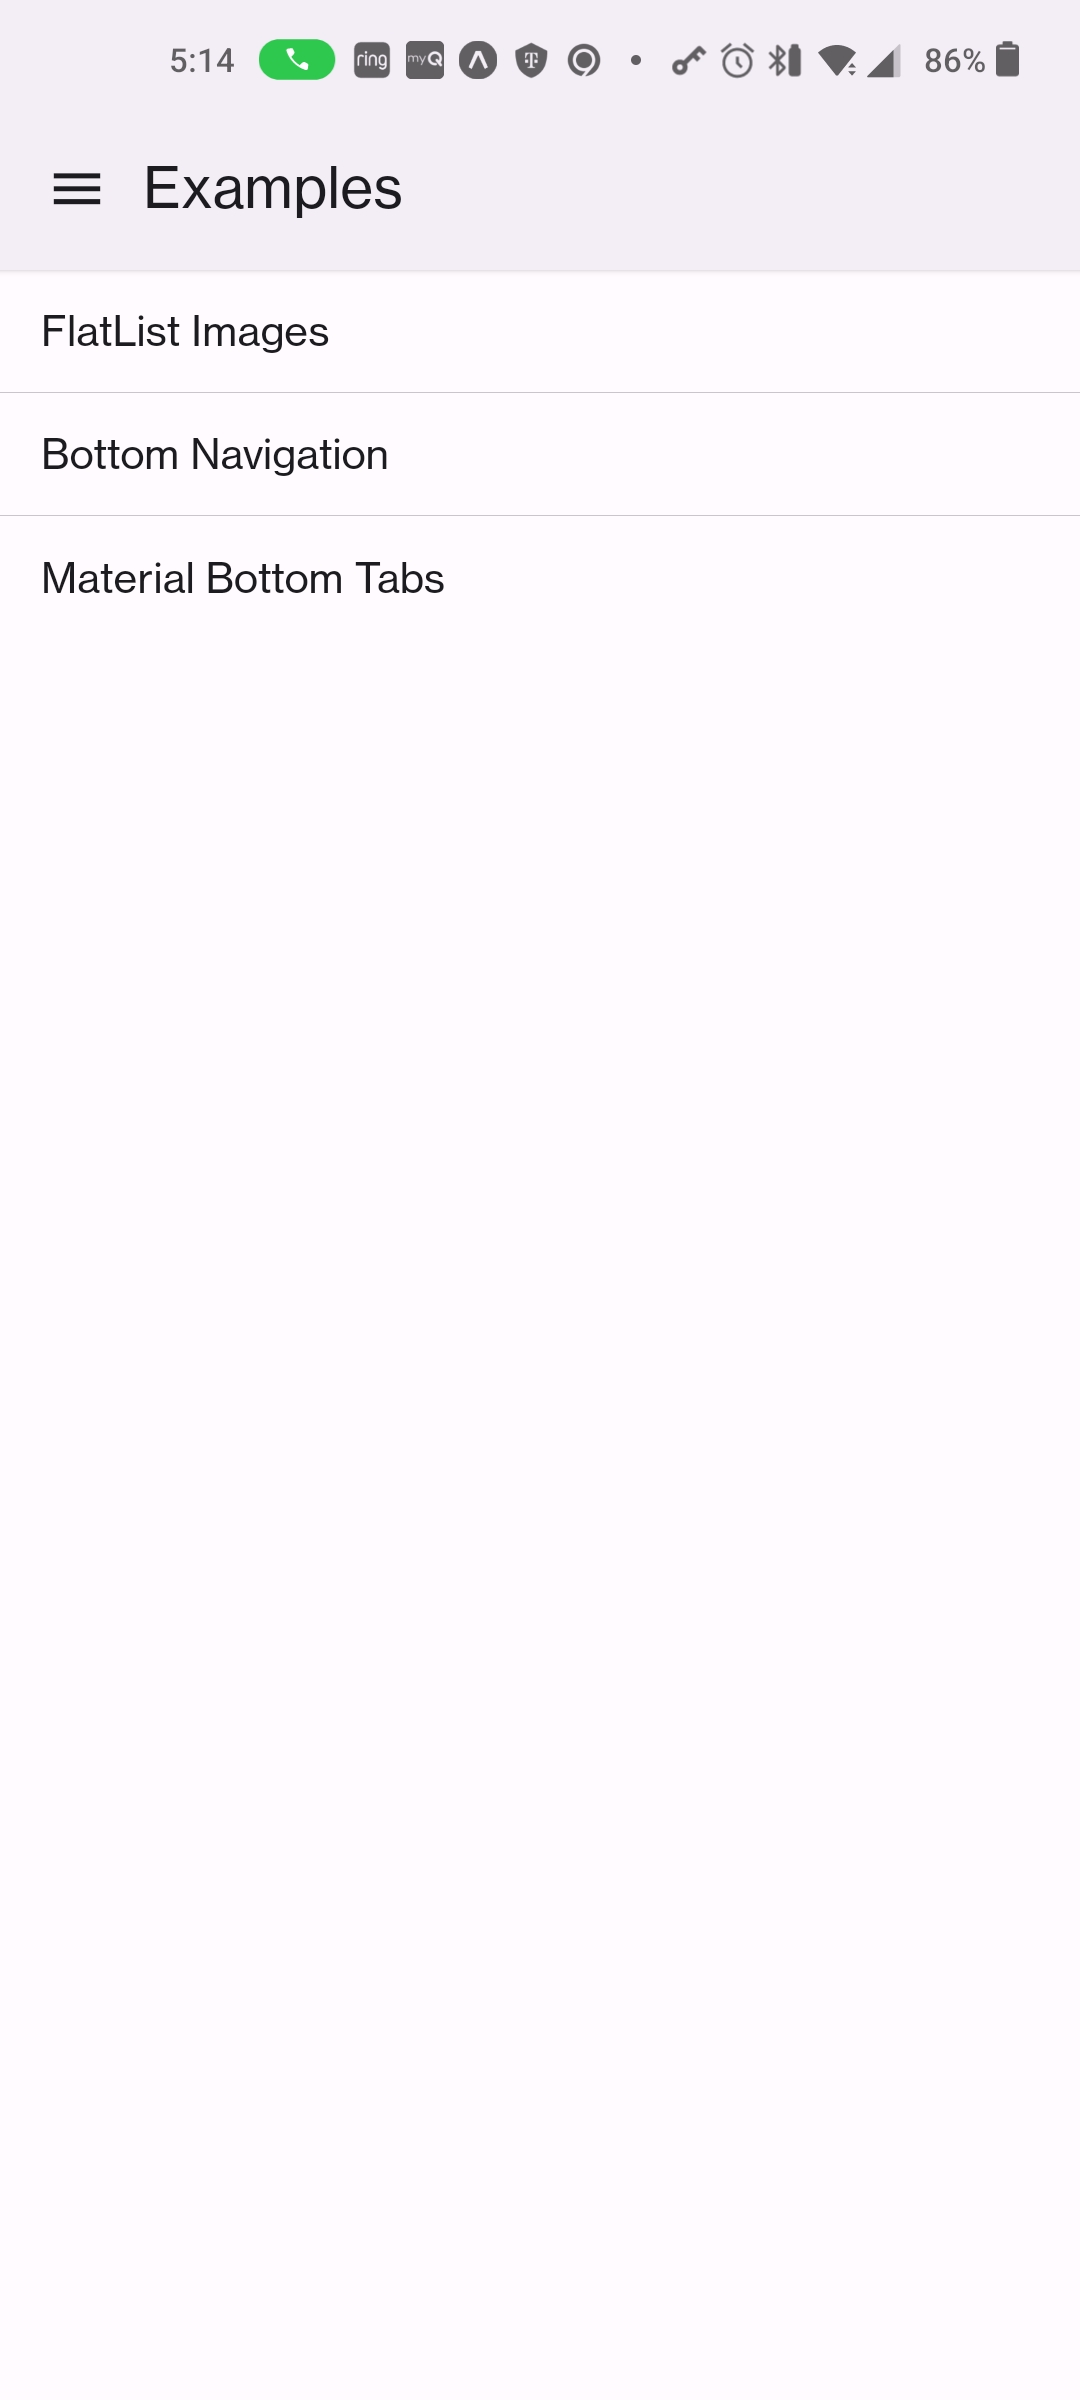
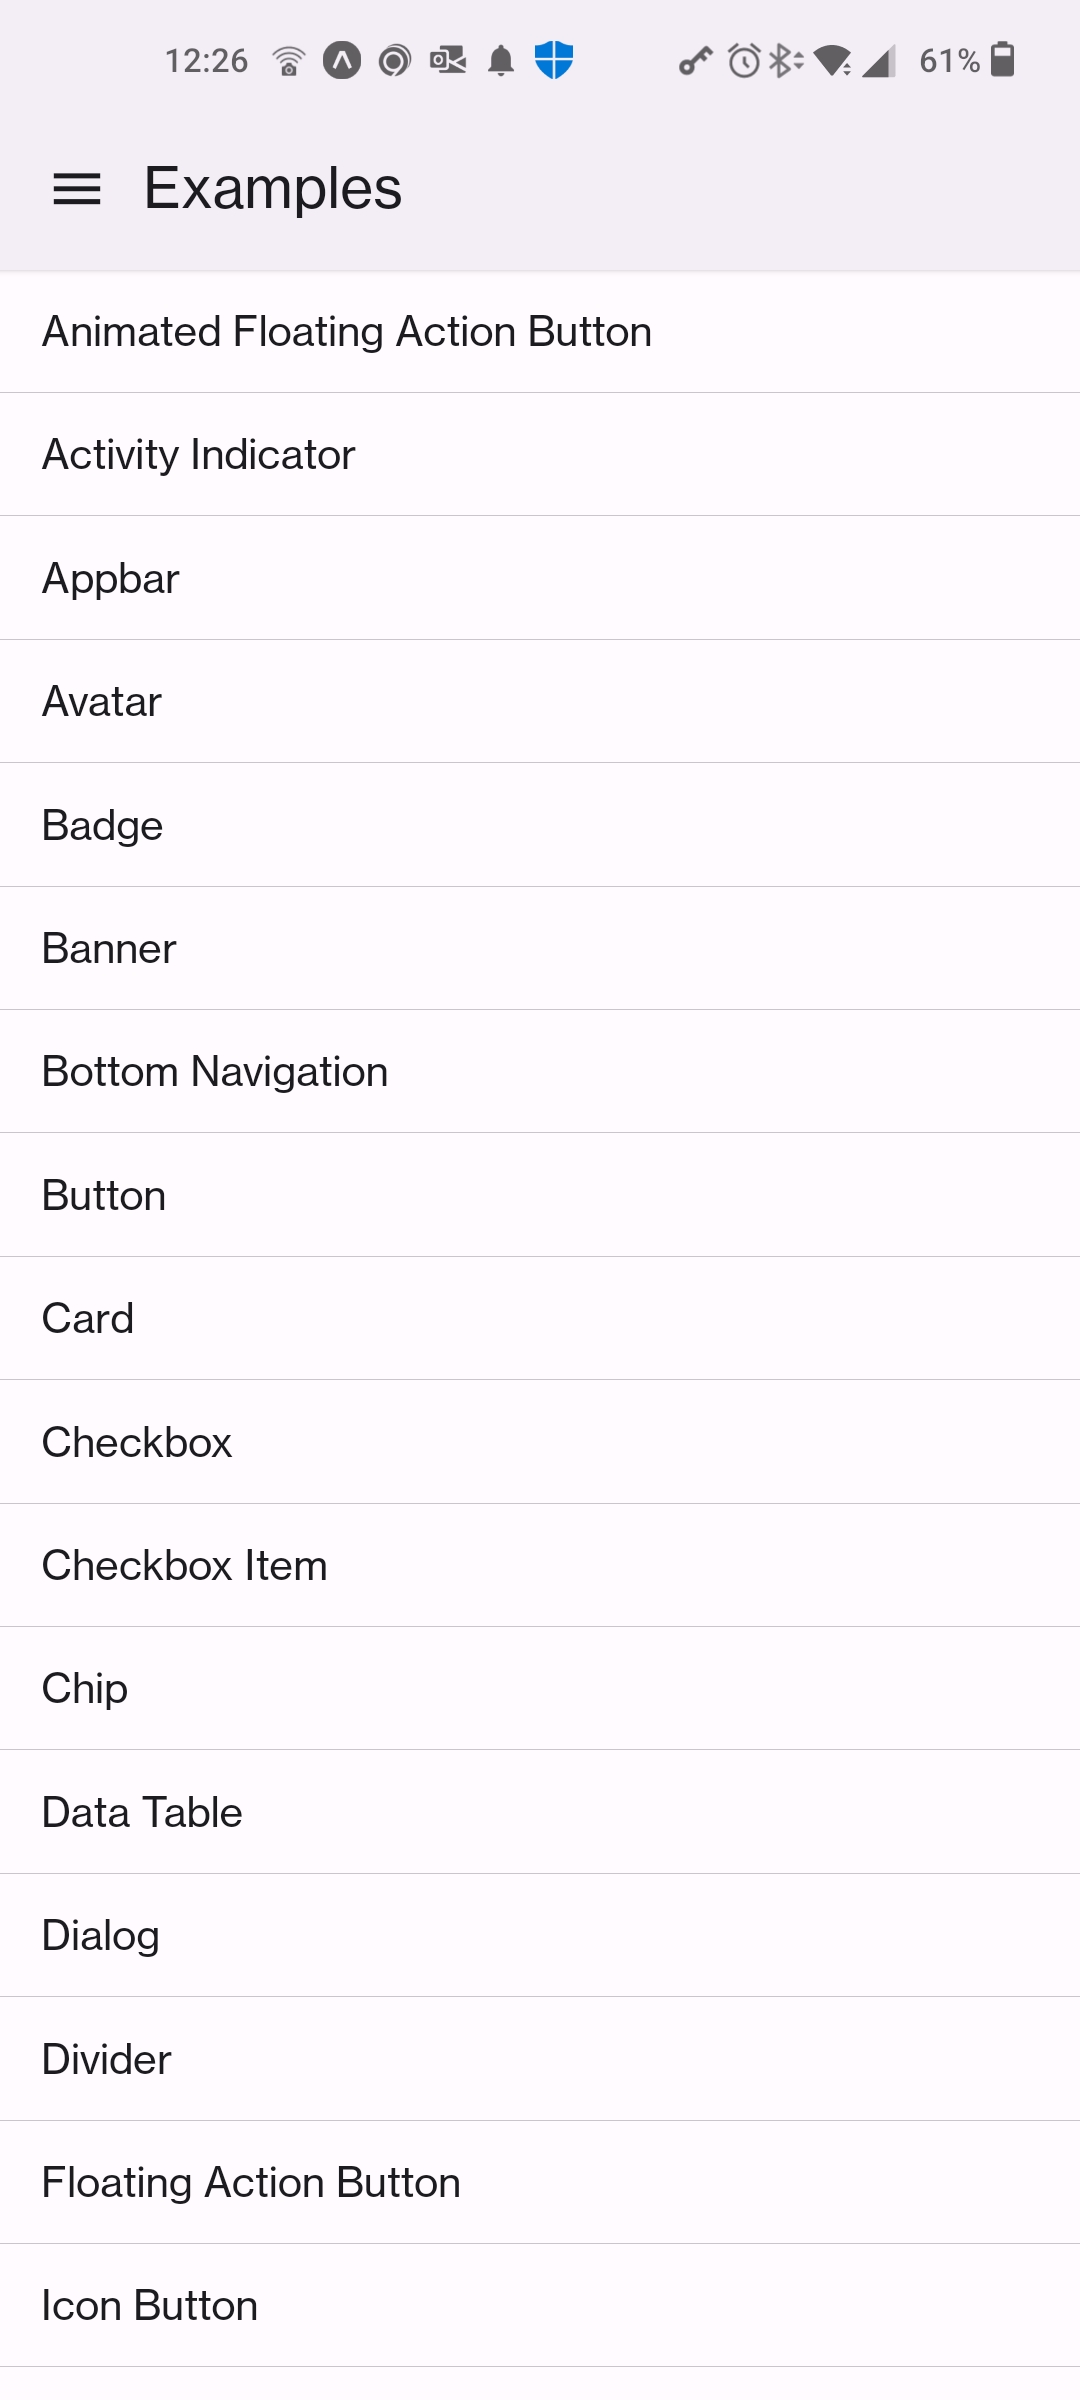
updated readme and added new mainscreen image

diff --git a/Readme.md b/Readme.md
@@ -1,22 +1,23 @@
-# React Native PaperExample
+# A working React Native Paper Examples
 I created this since [callstack's GitHub repo](https://github.com/callstack/react-native-paper) did not run on machine just when I followed their [instructions](https://callstack.github.io/react-native-paper/index.html).
 
 I have fixed the errors that pervented callstack's GitHub project from working.
 
+NOTE: I am still getting __Required cycle warnings__, but it still works.
+
 Examples taken from [React Native Paper examples](https://github.com/callstack/react-native-paper/tree/main/example)
 
 I added 2 more of my own
-- FlatListImagesExample
-- MaterialBottomTabsExample
+- FlatList Images Example
+- Materia lBottom Tabs Example
 
 # Screen shots
-Main Screen | Drawer | Flatlist Images
-:-----------:|:-----------:|:-----------: |
-![Main Screen](./screenshots/andriod/MainScreen.jpg) | ![Drawer](./screenshots/andriod/Drawer.jpg) | ![Flatlist Images](./screenshots/andriod/Flatlist%20Images.jpg) | !
-
-Bottom Navigation | Material Bottom Tabs | &nbsp;
+Main Screen | Drawer | &nbsp;
 :-----------:|:-----------:|:-----------:
-![Bottom Navigation](./screenshots/andriod/BottomNaviagation.jpg) | ![Material Bottom Tabs](./screenshots/andriod/Material%20Bottom%20Tabs.jpg) | <span>&nbsp;&nbsp;&nbsp;&nbsp;&nbsp;&nbsp;&nbsp;&nbsp;&nbsp;&nbsp;&nbsp;&nbsp;&nbsp;&nbsp;&nbsp;&nbsp;&nbsp;&nbsp;&nbsp;&nbsp;&nbsp;&nbsp;&nbsp;&nbsp;&nbsp;&nbsp;&nbsp;&nbsp;&nbsp;&nbsp;&nbsp;&nbsp;&nbsp;&nbsp;&nbsp;&nbsp;&nbsp;&nbsp;&nbsp;&nbsp;&nbsp;</span>
+<img src="./screenshots/andriod/MainScreen.jpg" height="400" /> | <img src="./screenshots/andriod/Drawer.jpg" height="400" /> | <span>&nbsp;&nbsp;&nbsp;&nbsp;&nbsp;&nbsp;&nbsp;&nbsp;&nbsp;&nbsp;&nbsp;&nbsp;&nbsp;&nbsp;&nbsp;&nbsp;&nbsp;&nbsp;&nbsp;&nbsp;&nbsp;&nbsp;&nbsp;&nbsp;&nbsp;&nbsp;&nbsp;&nbsp;&nbsp;&nbsp;&nbsp;&nbsp;&nbsp;&nbsp;&nbsp;&nbsp;&nbsp;&nbsp;&nbsp;&nbsp;&nbsp;</span>
+Bottom Navigation | Material Bottom Tabs | Flatlist Images
+<img src="./screenshots/andriod/BottomNaviagation.jpg" height="400" /> | <img src="./screenshots/andriod/Material%20Bottom%20Tabs.jpg" height="400" /> |<img src="./screenshots/andriod/Flatlist%20Images.jpg" height="400" /> |
+
 
 ## Prerequisites
 
